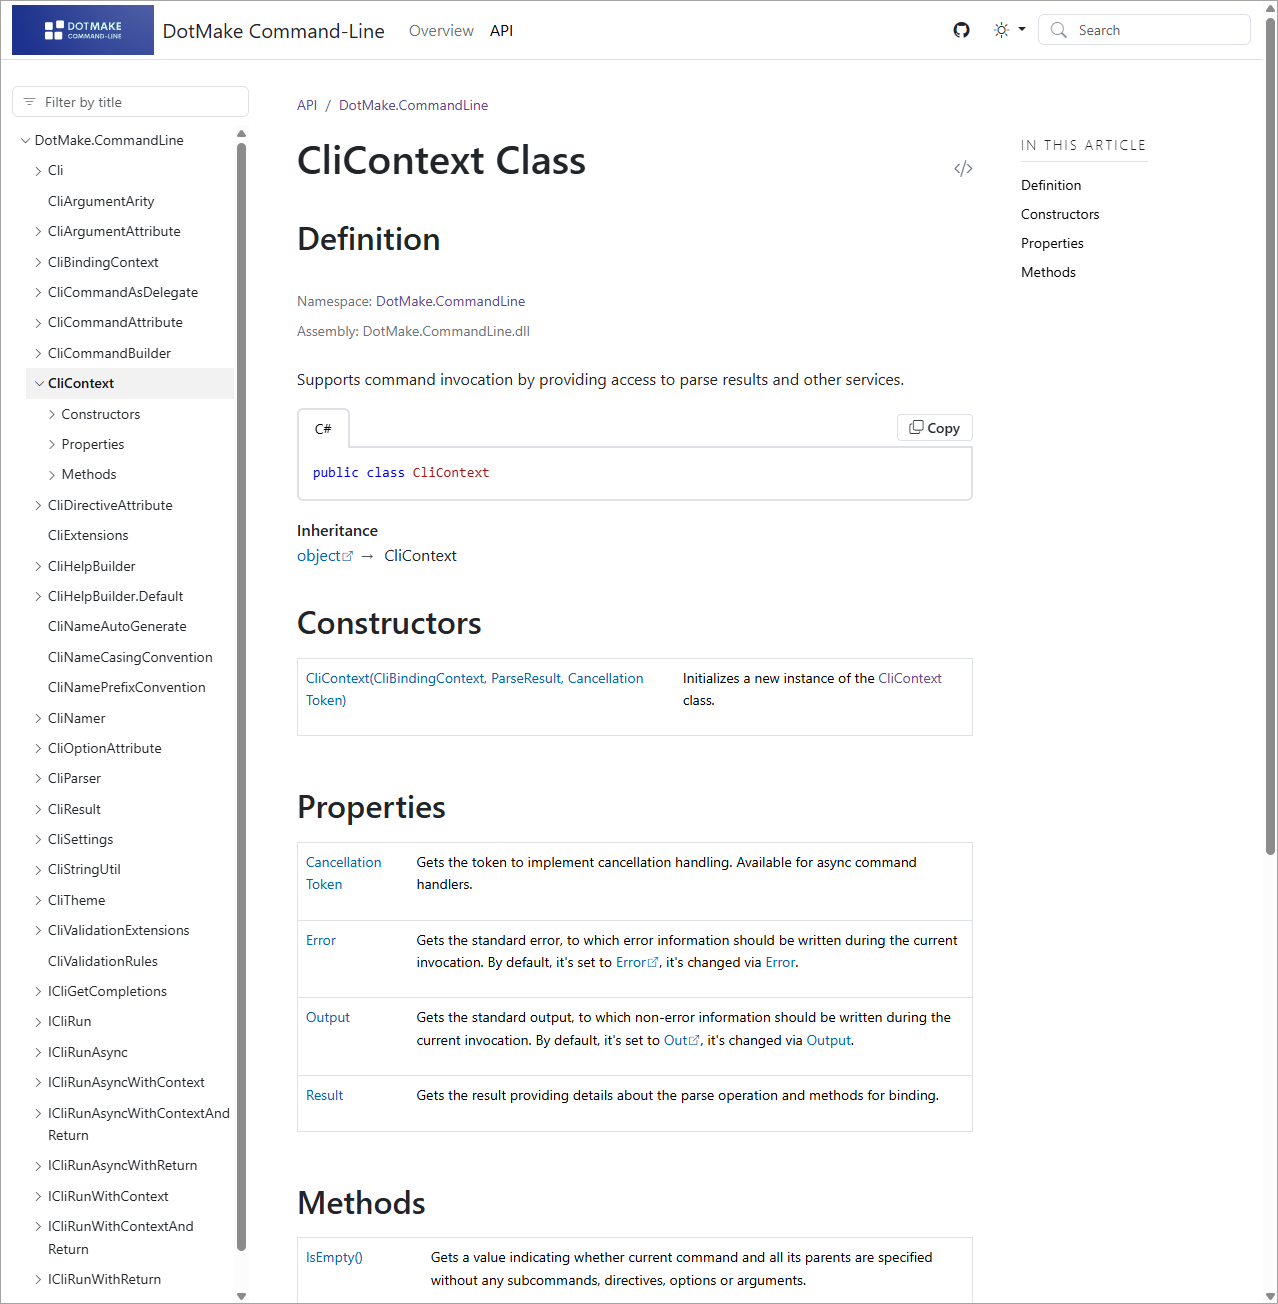
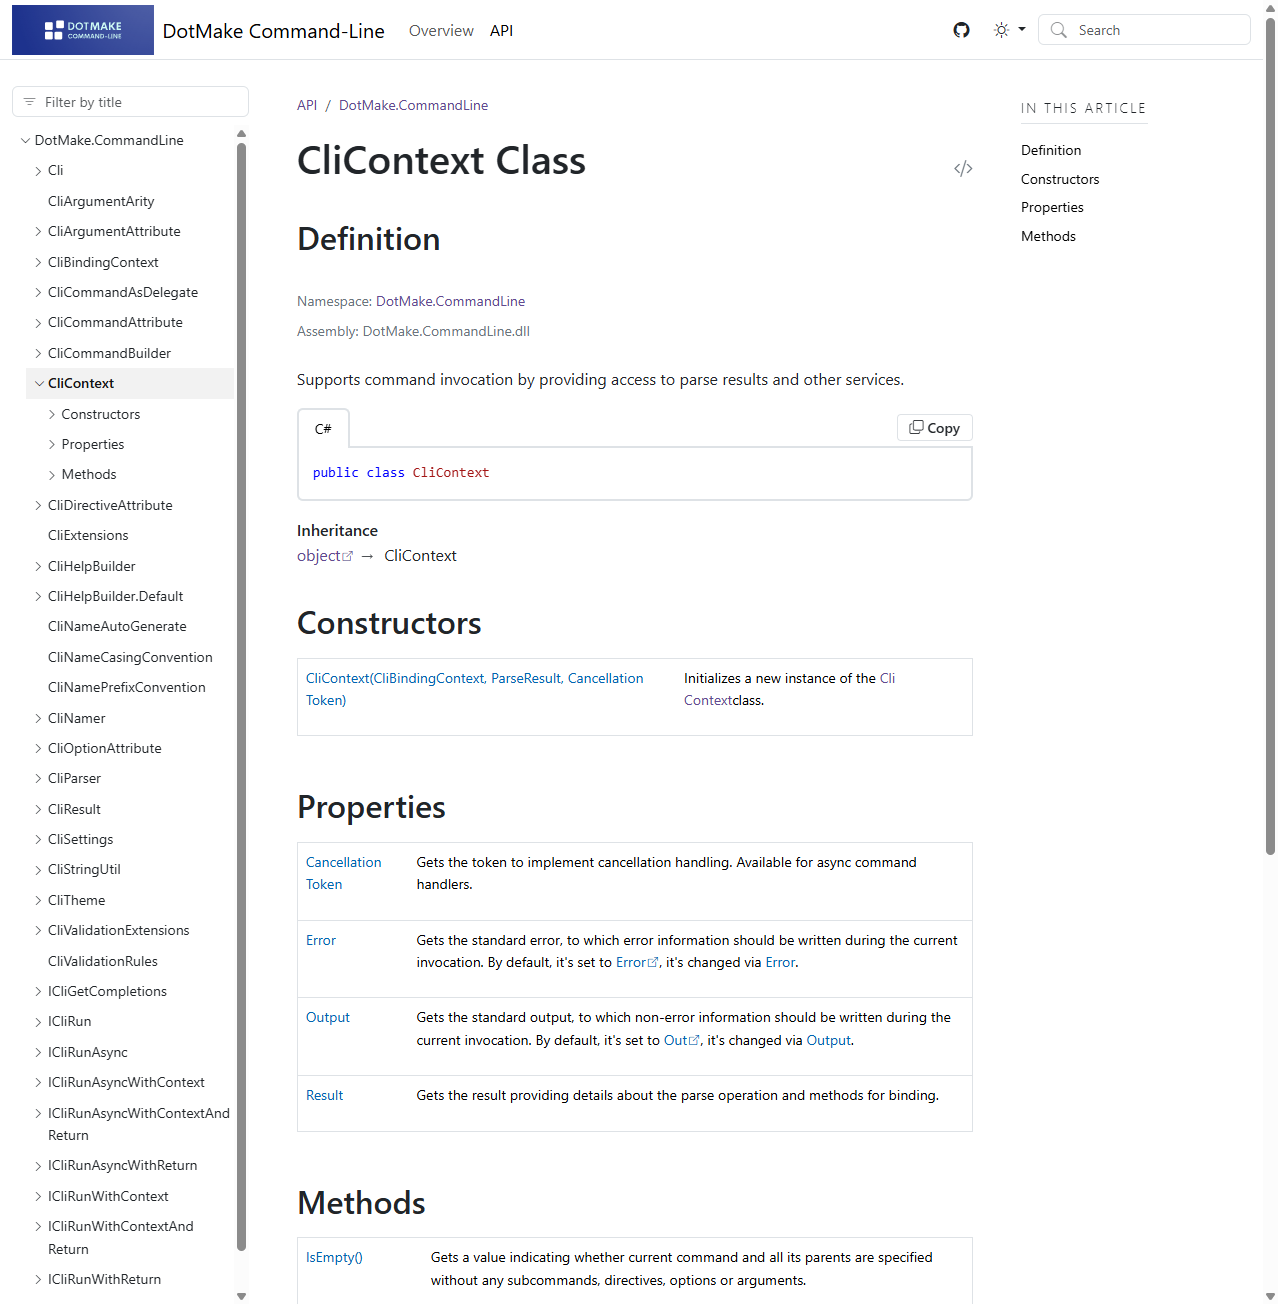
Version 1.4.2
- **Fixed:** Previous fix was not enough in some cases, for example when `<code>` blocks were inside `<para>` tags.

  Trim start of new lines inside of parent elements (e.g. `<summary>`, `<example>` under `<member>`)
  which may contain`<code>` tags.
  So that text surrounding code blocks does not break YAML due to inconsistent indentation.

- **Fixed:** Heading tags like `<h5>` should not inherit article margins when inside `<alert>` tags or `In this article` menu.

diff --git a/src/templates/docfx-plus/public/main.css b/src/templates/docfx-plus/public/main.css
@@ -113,42 +113,42 @@ body[data-yaml-mime=ApiPage] article dl.typelist.inheritance>dd>div:not(:last-ch
     padding: 0 6px;
 }
 
-h1 {
+article > h1, h1.section {
   line-height: 1.3;
   margin-top: 32px;
   margin-bottom: 12px;
 }
 
-h1:first-child {
+article > h1:first-child, h1.section:first-child {
   margin-top: 0;
 }
 
-h2 {
+article > h2, h2.section {
   line-height: 1.3;
   margin-top: 32px;
   margin-bottom: 12px;
 }
 
-h3 {
+article > h3, h3.section {
   line-height: 1.3;
   margin-top: 30px;
   margin-bottom: 18px;
 }
 
-h4 {
+article > h4, h4.section {
   line-height: 1.3;
   margin-top: 36px;
   margin-bottom: 6px;
 }
 
-h5 {
+article > h5, h5.section {
   line-height: 1.3;
   letter-spacing: 1px;
   margin-top: 36px;
   margin-bottom: 6px;
 }
 
-h6 {
+article > h6, h6.section {
   line-height: 1.3;
   letter-spacing: 1px;
   margin-top: 36px;

diff --git a/src/DotMake.DocfxPlus.Cli/Patches/XmlComment.cs b/src/DotMake.DocfxPlus.Cli/Patches/XmlComment.cs
@@ -79,7 +79,26 @@ namespace DotMake.DocfxPlus.Cli.Patches
 
         internal static void ResolveCode(XDocument doc, object context, object instance)
         {
-            var parentElements = new HashSet<XElement>();
+            //Trim start of new lines inside of parent elements (e.g. `<summary>`, `<example>` under `<member>`)
+            //which may contain`<code>` tags.
+            //So that text surrounding code blocks does not break YAML due to inconsistent indentation.
+            if (doc.Root != null)
+                foreach (var parentElement in doc.Root.Elements())
+                {
+                    foreach (var node in parentElement.DescendantNodes())
+                    {
+                        if (node is XText xText
+                            && xText.Parent?.Name.LocalName.ToLowerInvariant() != "code"
+                            && xText.Value.Contains('\n'))
+                        {
+                            var lines = xText.Value
+                                .Split('\n')
+                                .Select(line => line.TrimStart());
+
+                            xText.Value = string.Join("\n", lines);
+                        }
+                    }
+                }
 
             foreach (var node in doc.XPathSelectElements("//code[not(ancestor::code)]").ToList())
             {
@@ -111,10 +130,8 @@ namespace DotMake.DocfxPlus.Cli.Patches
                 else
                     (lang, value) = ResolveCodeContent(node, context, indent, tabSize);
 
-
-                var code = new XElement("code", value);
-                //Seems no longer needed when we normalize indentation of all <pre><code> tags
-                //var code = CreateCodeTagWithBrTags(value);
+                //var code = new XElement("code", value);
+                var code = FixCodeTagLineBreaks(value);
 
                 //Store original lang from file (if source was set) for using as title on client-side tabs
                 if (!string.IsNullOrWhiteSpace(lang))
@@ -138,12 +155,20 @@ namespace DotMake.DocfxPlus.Cli.Patches
 
                 code.SetAttributeValue("class", $"lang-{lang}");
 
-                if (node.Parent != null)
-                    parentElements.Add(node.Parent);
+                var pre = new XElement("pre", code);
 
-                node.ReplaceWith(new XElement("pre", code));
+                if (node.PreviousNode is XElement)
+                    node.ReplaceWith('\n', pre);
+                else
+                {
+                    if (node.PreviousNode is XText xText && !xText.Value.EndsWith('\n'))
+                        xText.Value += '\n';
+
+                    node.ReplaceWith(pre);
+                }
 
                 /*
+                
                 if (node.PreviousNode is null
                     || node.PreviousNode is XText xText && xText.Value == $"\n{indent}")
                 {
@@ -158,32 +183,6 @@ namespace DotMake.DocfxPlus.Cli.Patches
                 }
                 */
             }
-
-            //Normalize new lines inside of parent elements which contain <pre><code> tags.
-            //So that text surrounding code blocks does not break YAML due to inconsistent indentation
-            foreach (var parentElement in parentElements)
-            {
-                foreach (var node in parentElement.Nodes().ToList())
-                {
-                    if (node is XText xText
-                        && xText.Value.Contains('\n'))
-                    {
-                        var lines = xText.Value
-                            .Split('\n')
-                            .Select(line => line.TrimStart());
-
-                        xText.Value = string.Join("\n", lines);
-                    }
-
-                    if (node is XElement xElement
-                        && xElement.Name == "pre")
-                    {
-                        if (xElement.PreviousNode is XElement
-                            || xElement.PreviousNode is XText xText2 && !xText2.Value.EndsWith('\n'))
-                            xElement.AddBeforeSelf(new XText("\n"));
-                    }
-                }
-            }
         }
 
         internal static (string lang, string code) ResolveCodeContent(XElement node, object context, string indent, int tabSize)
@@ -197,7 +196,7 @@ namespace DotMake.DocfxPlus.Cli.Patches
 
                 if (subNode is XText subXText)
                     codePart = subXText.Value;
-                if (subNode is XElement subXElement && subXElement.Name == "code")
+                if (subNode is XElement subXElement && subXElement.Name.LocalName.ToLowerInvariant() == "code")
                 {
                     var (lang, value) = ResolveCodeSource(subXElement, context);
                     if (firstLang == null)
@@ -367,28 +366,30 @@ namespace DotMake.DocfxPlus.Cli.Patches
             return builder.ToString().TrimEnd();
         }
 
-#pragma warning disable IDE0051
-        private static XElement CreateCodeTagWithBrTags(string value)
-#pragma warning restore IDE0051
+        private static XElement FixCodeTagLineBreaks(string value)
         {
+            /*
+            To prevent Yaml multi-line problems, use comment tags `<!-- -->` for line breaks
+            We can't use \n as Yaml goes crazy (converts whole example: block to a string with \r\n)
+            For example if a line is empty or whitespace, in Yaml it's written without any indent
+            and when reading that Yaml it splits the blocks tries to close the previous <pre><code> and open a new one
+
+            Previously we were using <br> tags which required to be replaced back in main.js but comment tags work better
+            and does not need to processed in JS.
+            */
+
             var code = new XElement("code");
 
             foreach (var line in ReadLines(value))
             {
+                if (line == null) continue;
+
+                if (string.IsNullOrWhiteSpace(line))
+                    code.Add(new XComment(" "));
+
                 code.Add(new XText(line));
 
-                /*
-                To prevent Yaml multi-line problems, use <br> tags for line breaks
-                We can't use \n as Yaml goes crazy (converts whole example: block to a string with \r\n)
-                For example if a line is empty or whitespace, in Yaml it's written without any indent
-                and when reading that Yaml it splits the blocks tries to close the previous <pre><code> and open a new one
-
-                In the web page, we can simply fix highlight.js to support unescaped <br> tags in main.js:
-                    hljs.addPlugin({ 
-                      "before:highlightElement": ({ el }) => { el.textContent = el.innerText } });
-
-                */
-                code.Add(new XElement("br"));
+                code.Add(new XText("\n"));
             }
 
             return code;
